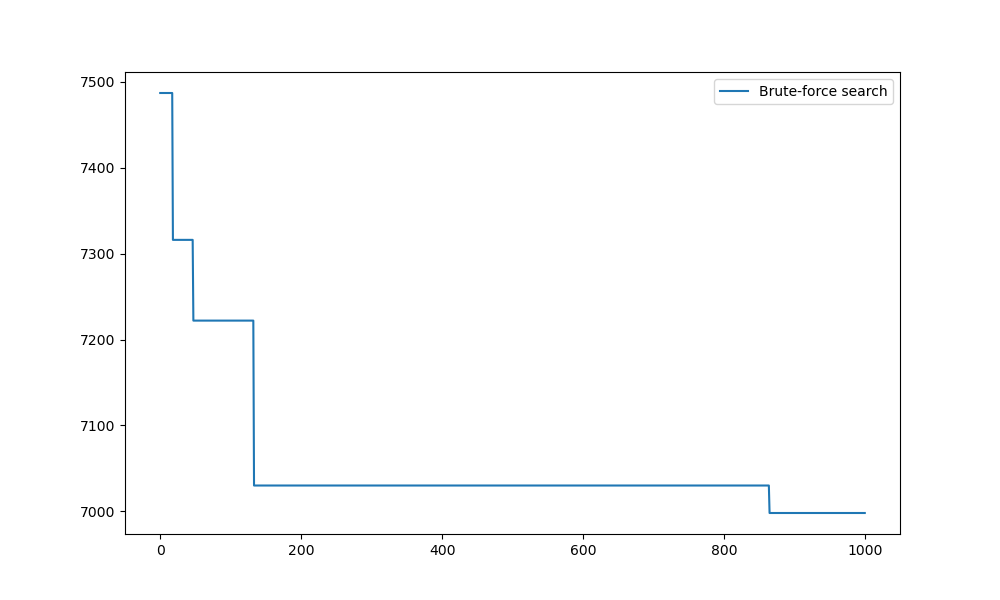
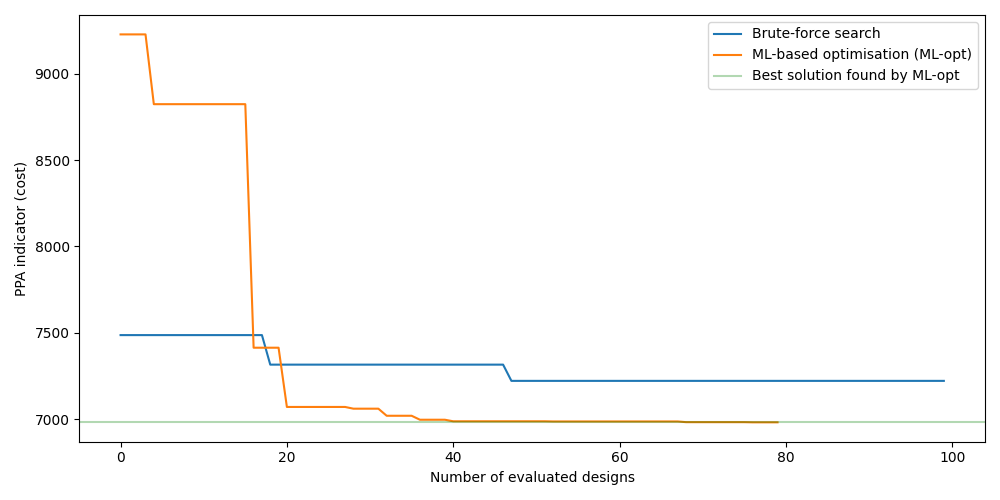
Revise HEBO demo

diff --git a/misc/hebodemo.py b/misc/hebodemo.py
@@ -1,6 +1,3 @@
-#!/usr/bin/env python
-# coding: utf-8
-
 # In[1]:
 
 
@@ -11,18 +8,8 @@ import random
 import matplotlib.pyplot as plt
 
 
-# from hebo.design_space.design_space import DesignSpace
-# from hebo.optimizers.hebo import HEBO
-
-def obj(params : pd.DataFrame) -> np.ndarray:
-    return ((params.values - 0.37)**2).sum(axis = 1).reshape(-1, 1)
-        
-# space = DesignSpace().parse([{'name' : 'x', 'type' : 'num', 'lb' : -3, 'ub' : 3}])
-# opt   = HEBO(space)
-# for i in range(5):
-    # rec = opt.suggest(n_suggestions = 4)
-    # opt.observe(rec, obj(rec))
-    # print('After %d iterations, best obj is %.2f' % (i, opt.y.min()))
+from hebo.design_space.design_space import DesignSpace
+from hebo.optimizers.hebo import HEBO
 
 
 # In[2]:
@@ -94,19 +81,40 @@ def randomised_search(repeats = None):
     return xdata, ydata, best_probe
 
 
-# In[13]:
+def hebo_search(repeats = None):
+    space = DesignSpace().parse(space_cfg)
+    opt = HEBO(space)
+    np.random.seed(42)
+    
+    hydata = []
+    nsug = 4
+    for i in range(repeats):
+        print('Iteration %d' % i)
+        print('    Generating probes')
+        rec = opt.suggest(n_suggestions = nsug)
+        print('    Evaluating')    
+        opt.observe(rec, tcobj(rec))
+        print('    Best PPA (cost) %.2f' % opt.y.min())
+        hydata += [opt.y.min()] * nsug
+    hxdata = list(range(len(hydata)))
+    return hxdata, hydata, opt
 
 
-nrep  = 1000
+nrep = 100
 xdata, ydata, best_probe = randomised_search(nrep)
-plt.figure(figsize=(10,6))
+hxdata, hydata, hbest_probe = hebo_search(20)
+
+plt.figure(figsize=(10,5))
 plt.xlim = ([0, nrep])
-# plt.yscale('')
+plt.xlabel('Number of evaluated designs')
+plt.ylabel('PPA indicator (cost)')
 plt.plot(xdata, ydata, label='Brute-force search')
+plt.plot(hxdata, hydata, label='ML-based optimisation (ML-opt)')
+plt.axhline(y = hbest_probe.y.min(), color = 'g', linestyle = '-', alpha=0.3, label='Best solution found by ML-opt')
 plt.legend()
+plt.tight_layout()
 plt.savefig('search.png')
 plt.show()
 plt.close()
-print(best_probe)
- 
+print(hbest_probe.y.min())
 
